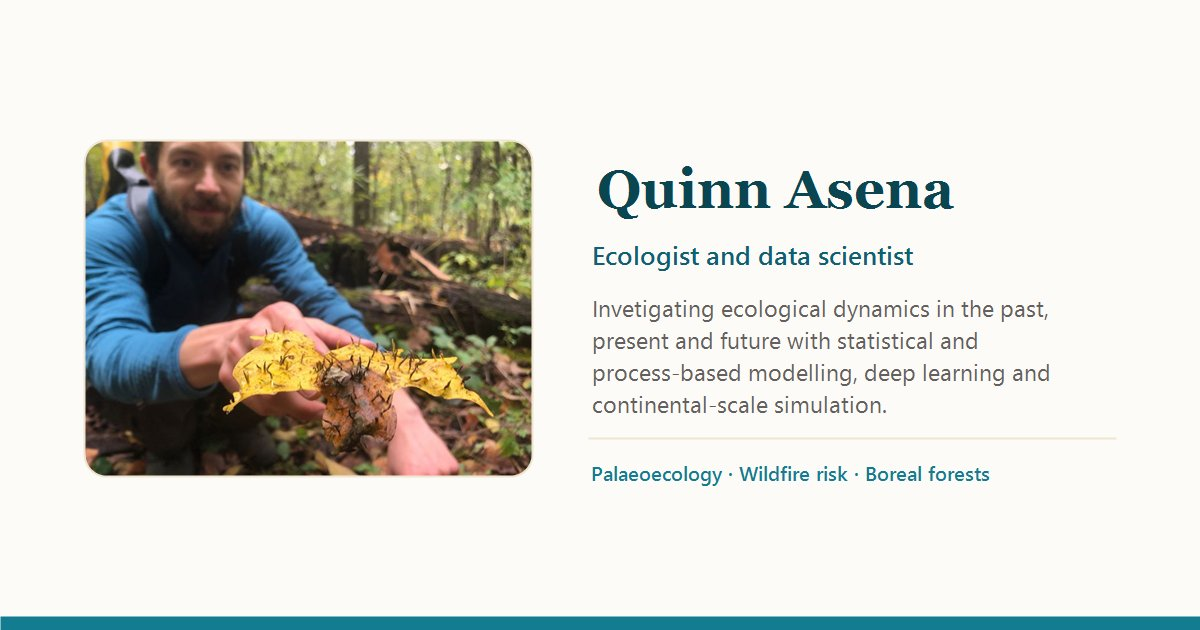
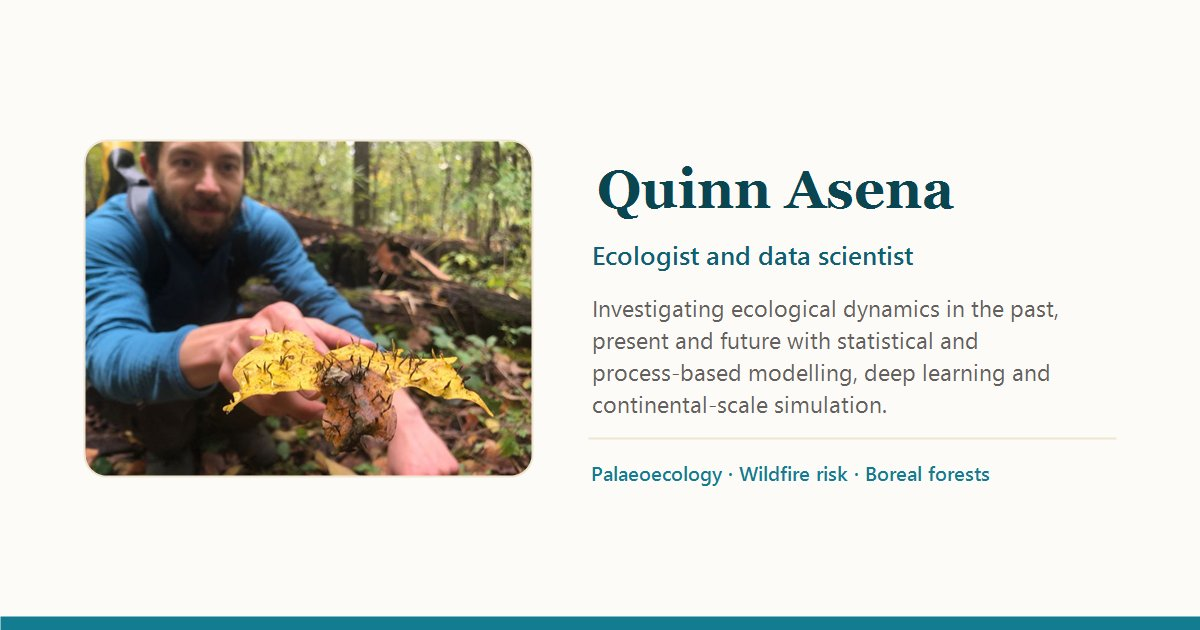
minor fixes

Changed region(s): [[0.5242, 0.4825, 0.8942, 0.5127]]

diff --git a/styles.scss b/styles.scss
@@ -212,6 +212,32 @@ span.navbar-title {
   text-underline-offset: 0.25em;
 }
 
+// Label the colour-scheme toggle. On its own the little switch icon is easy to miss
+// among the social icons, and nothing indicates what it does.
+//
+// Quarto adds .alternate to this control whenever the DARK stylesheet is active. That
+// is true regardless of which theme is the default: dark is always the "alternate"
+// sheet, layered over light, and making it the default just means the page starts
+// with the alternate applied. So .alternate here means "dark is showing".
+//
+// The label names the mode you are switching TO, which is the convention most toggles
+// follow: it reads "Dark" while you are in light mode, and "Light" while in dark.
+.quarto-color-scheme-toggle {
+  display: inline-flex;
+  align-items: center;
+  gap: 0.35rem;
+
+  &::after {
+    content: "Dark";
+    font-size: $font-size-sm;
+    font-weight: 600;
+  }
+
+  &.alternate::after {
+    content: "Light";
+  }
+}
+
 // Visual section divider between bio and navigation grid on homepage
 hr.section-divider {
   border: none;
@@ -496,16 +522,25 @@ hr.section-divider {
     letter-spacing: 0.06em;
   }
 
+  // Individual talks keep their bullets. Only the outer level (the years) is
+  // bulletless, since a bullet beside a year heading reads as noise.
+  //
+  // padding-left has to clear both the border and the marker: list markers render
+  // inside the padding box, so at the old 0.9rem they sat on top of the border.
   ul ul {
     margin-bottom: 0;
-    padding-left: 0.9rem;
+    padding-left: 2rem;
     border-left: 2px solid var(--brand-tint-30);
-    list-style: none;
+    list-style: disc;
 
     li {
       margin-bottom: 0.35rem;
       font-size: 0.95rem;
       line-height: 1.5;
+
+      &::marker {
+        color: var(--brand-500);
+      }
     }
   }
 }
